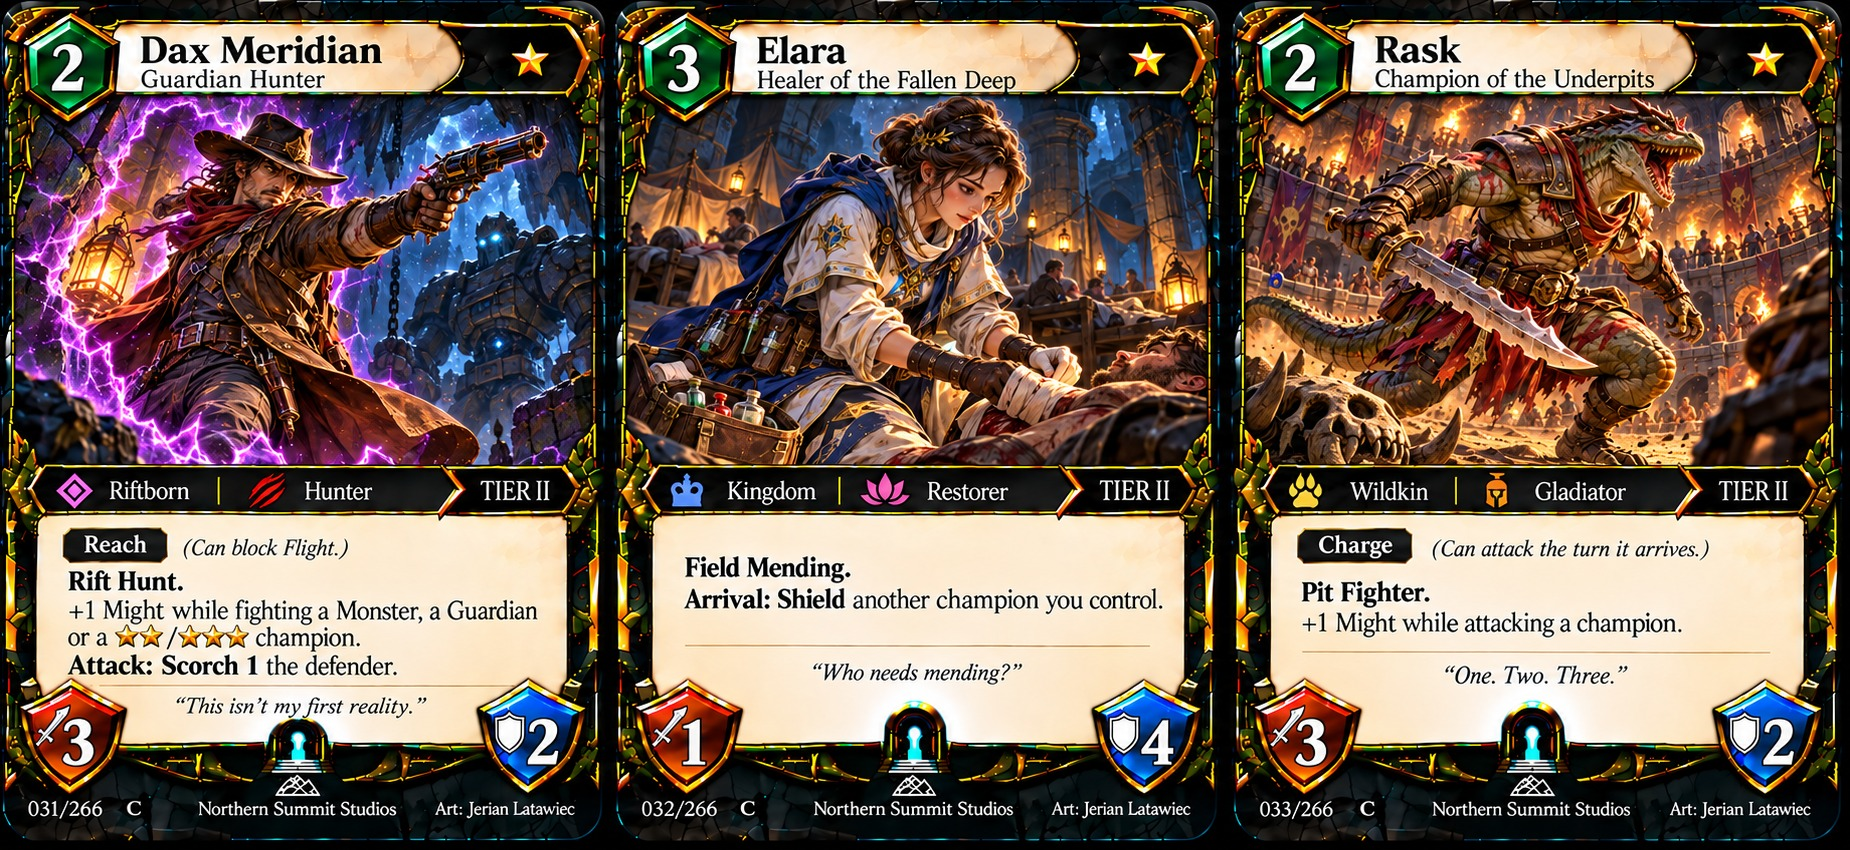
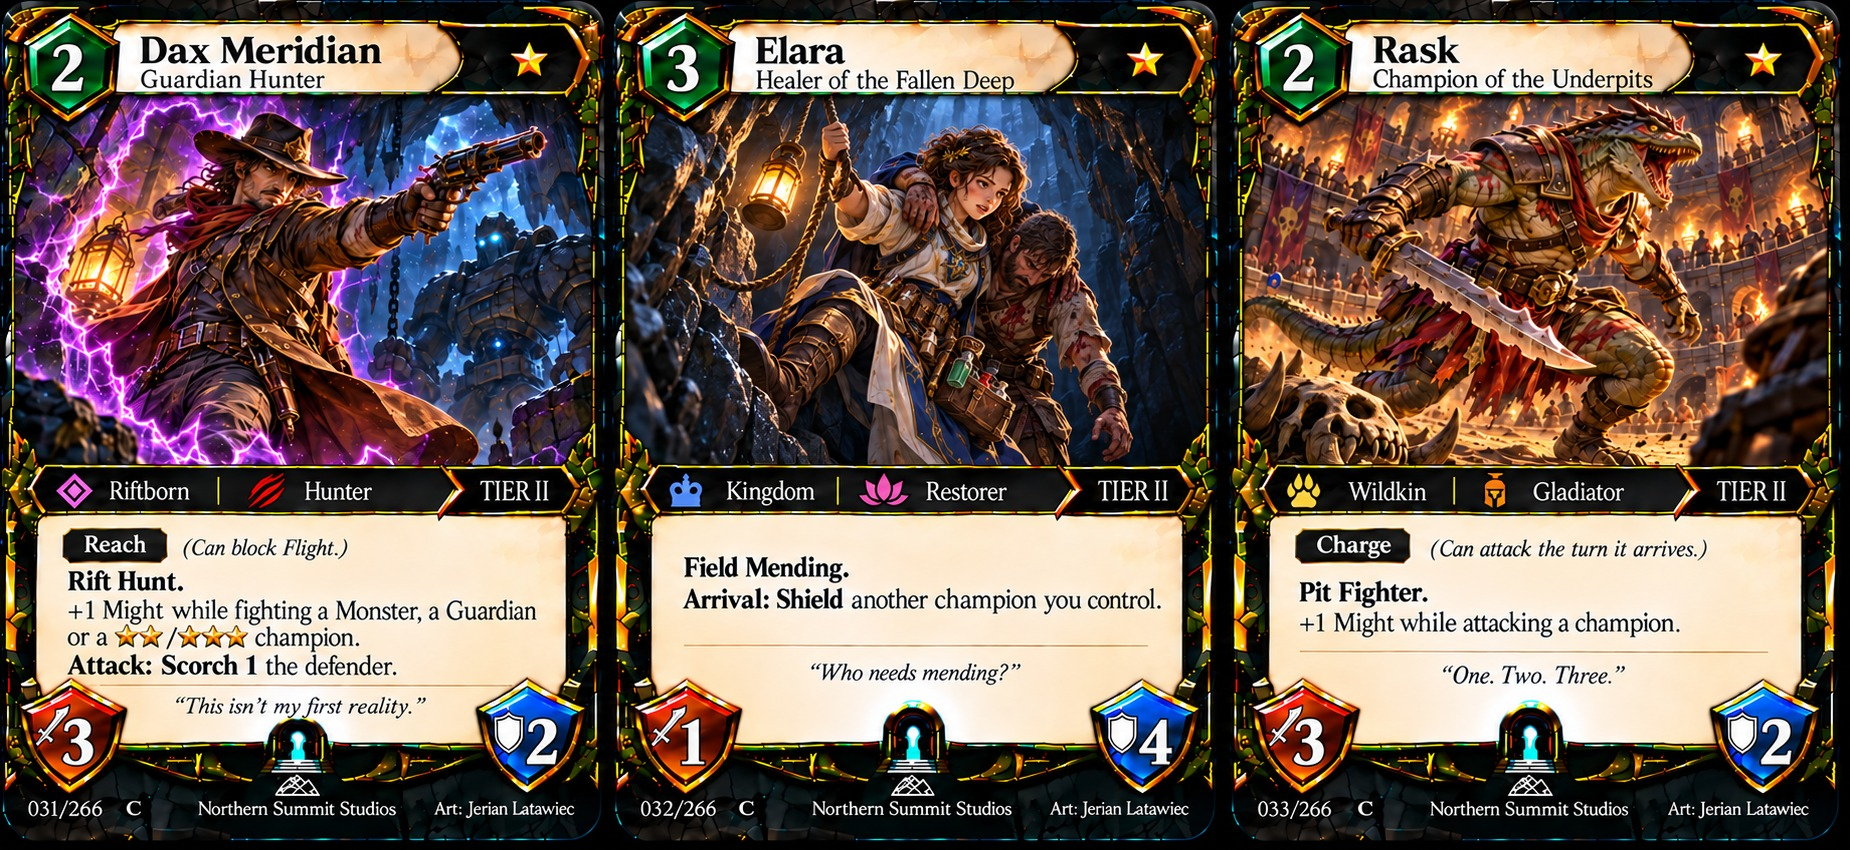
art(set2): 032 Elara fixed (rope rescue) and approved

diff --git a/prototype-v0.2/card-prompts/set2-in-order/ORDER.md b/prototype-v0.2/card-prompts/set2-in-order/ORDER.md
@@ -14,7 +14,7 @@ Generated by `npm run proto:cardprompts`. Finished card numbers go in DONE.txt a
 | 022, 023, 024 | done | |
 | 025, 026, 027 | done | |
 | 028, 029, 030 | done | |
-| 031, 032, 033 | 032 Elara ★ | set2-in-order/sheet-031-033.txt |
+| 031, 032, 033 | done | |
 | 034, 035, 036 | done | |
 | 037, 038, 039 | 037 Professor Spark ★ · 038 Orion ★ · 039 Maeve ★ | set2-in-order/sheet-037-039.txt |
 | 040, 041, 042 | 040 Ronin Zero ★ · 041 Ignara ★ · 042 Ignara ★★ | set2-in-order/sheet-040-042.txt |
